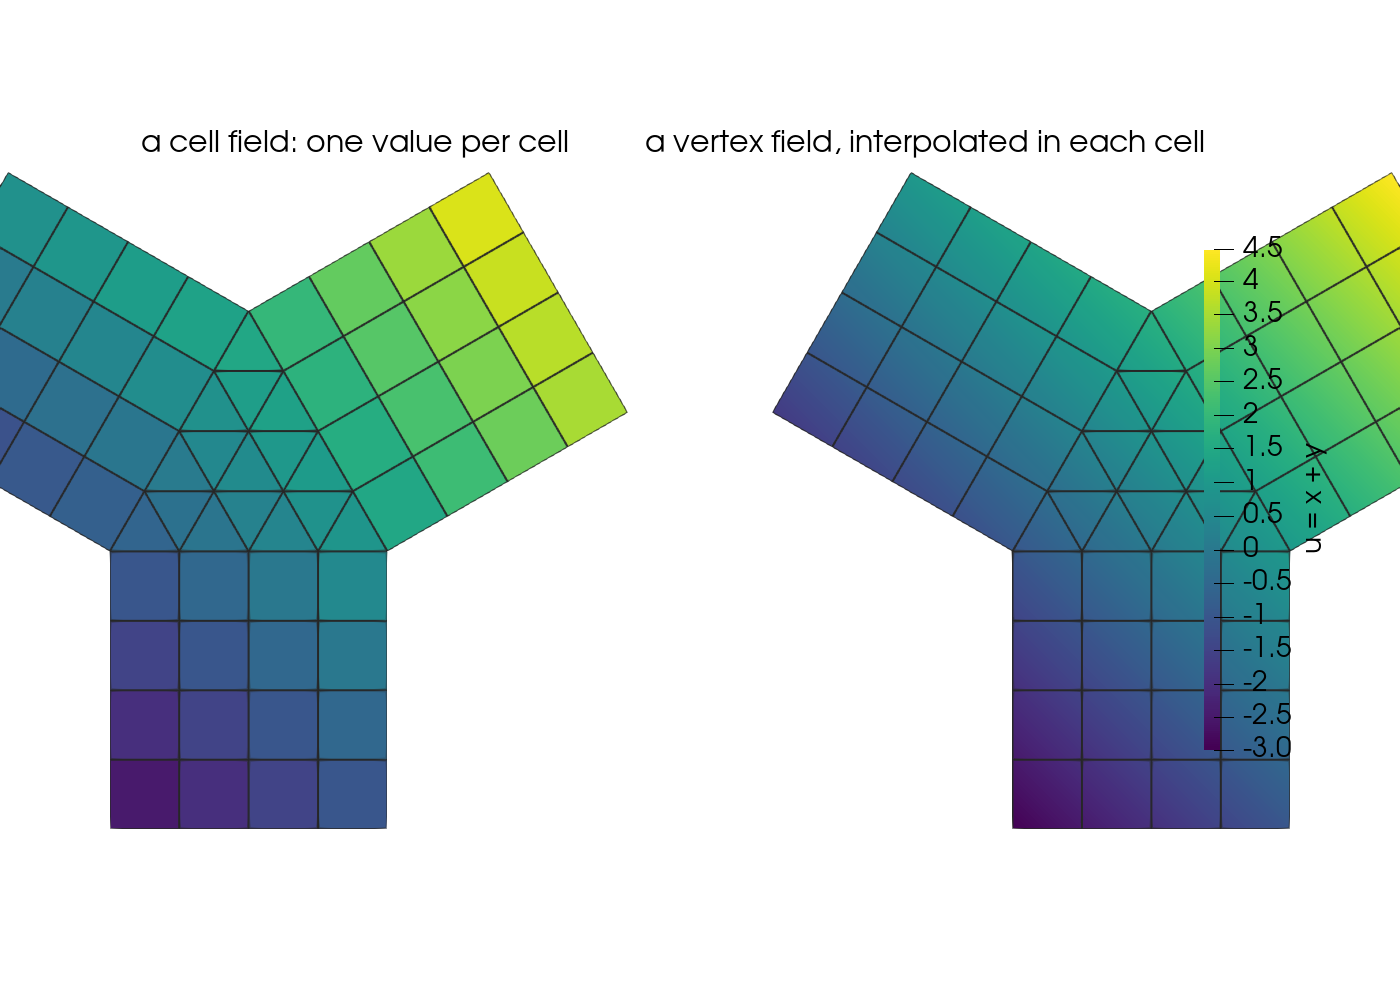
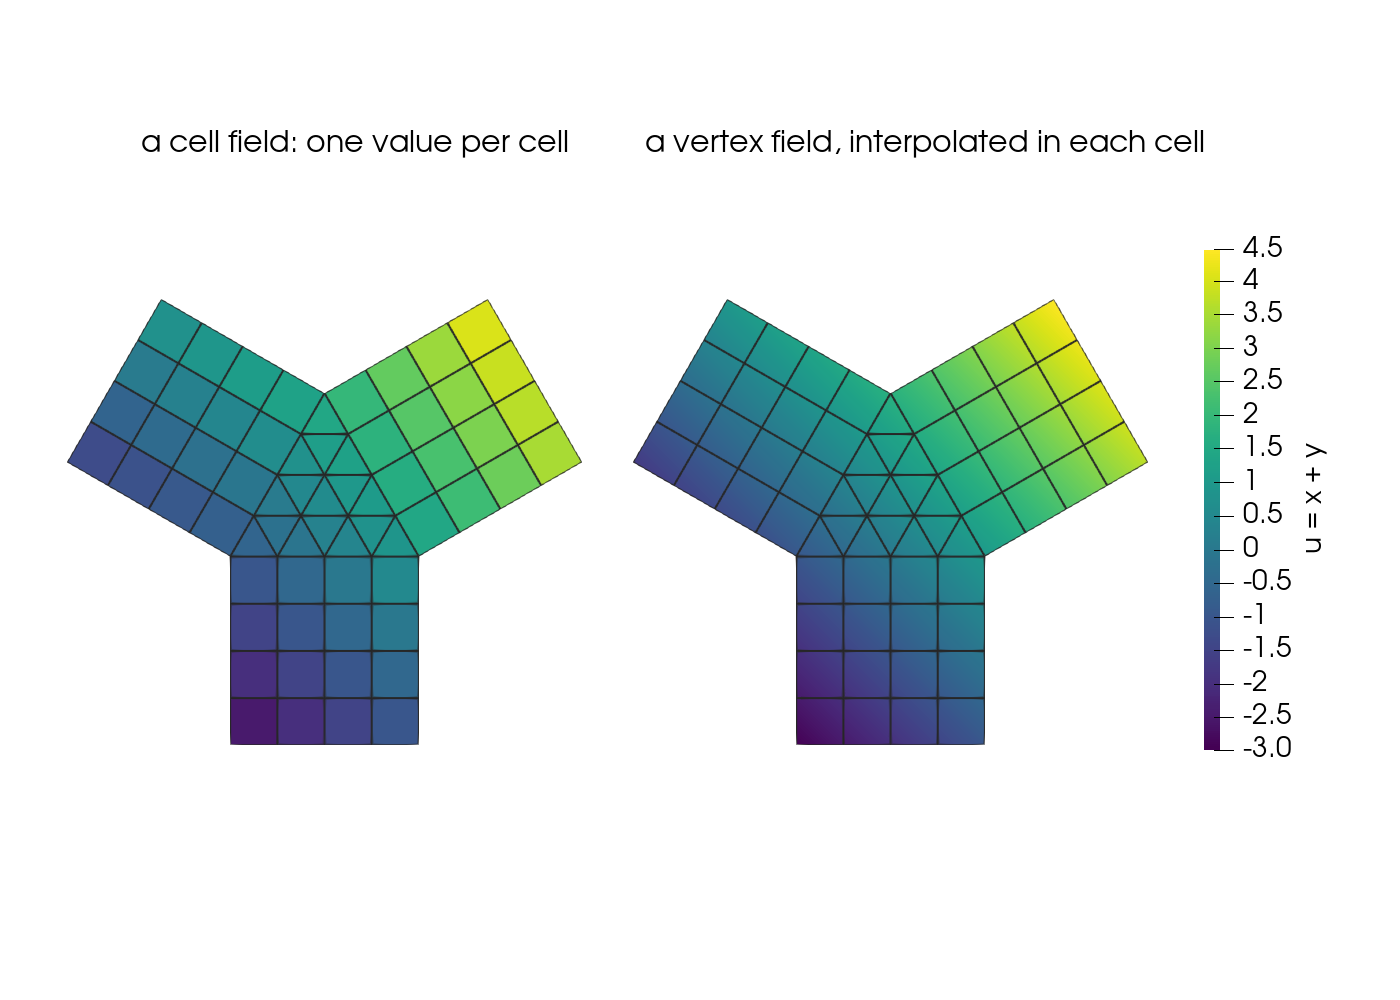
Frame the rendered figures as intended and harden the figure scripts
Render before setting the camera so ParaView's first-render reset cannot override it; clear errors for old bash, failed builds and a rank failing alone.

diff --git a/docs/figures/figure_data.cpp b/docs/figures/figure_data.cpp
@@ -12,12 +12,15 @@
 // docs/figures/make_figures.sh runs the sets and renders the figures; see
 // docs/developer/making-figures.md.
 //
-// Exits 0 on success; 1 when a set fails (the message names the check); 2 for
-// bad arguments, an unknown set, or the wrong rank count.
+// Exits 0 on success; 1 when a set fails (each failing rank prints the check,
+// then leaves at once, so the launcher stops the others rather than leaving
+// them waiting in a collective); 2 for bad arguments, an unknown set, or the
+// wrong rank count.
 
 #include <array>
 #include <cmath>
 #include <cstdio>
+#include <cstdlib>
 #include <exception>
 #include <filesystem>
 #include <fstream>
@@ -337,11 +340,14 @@ void set_edit(const soma::Comm& comm, const fs::path& out) {
   const soma::EditReport report = edit.apply();
   require(report.removed[2] == 2 && report.added[2] == 1 && report.added[0] == 2, "edit: the report");
   require(mesh.edited() && mesh.num_live(2) == 11 && mesh.count(2) == 13 && mesh.tail(2) == 1, "edit: edited state");
+  // What the figure's titles and caption say: the added quad is lid 12, gid 13.
+  require(mesh.gid(2)(12) == 13, "edit: the added quad has gid 13");
   write_json(comm, out / "edit-applied.json", edit_snapshot(mesh));
   const soma::Renumbering renumbering = mesh.compress();
   require(!mesh.edited() && mesh.count(2) == 11, "edit: compressed");
   require(renumbering.new_lid[2][5] == soma::invalid_lo && renumbering.new_lid[2][6] == soma::invalid_lo,
           "edit: removed cells have no new lid");
+  require(renumbering.new_lid[2][12] == 10 && mesh.gid(2)(10) == 13, "edit: the added quad becomes lid 10, gid 13");
   write_json(comm, out / "edit-compressed.json", edit_snapshot(mesh));
 }
 
@@ -399,7 +405,8 @@ int main(int argc, char** argv) {
     if (root) std::printf("soma_figure_data: %s written to %s\n", found->first.c_str(), out.c_str());
     return 0;
   } catch (const std::exception& e) {
-    if (root) std::fprintf(stderr, "soma_figure_data: %s: %s\n", found->first.c_str(), e.what());
-    return 1;
+    std::fprintf(stderr, "soma_figure_data: %s (rank %d): %s\n", found->first.c_str(), comm.rank(), e.what());
+    std::fflush(nullptr);
+    std::_Exit(1);  // not a return: the other ranks may be waiting in a collective
   }
 }

diff --git a/docs/figures/render.py b/docs/figures/render.py
@@ -100,6 +100,12 @@ def pv_surface(pv, view, source):
 
 
 def pv_save(pv, view, path, camera):
+    """Renders with the given camera and saves the shared size.
+
+    A first render lets ParaView reset the camera to the data, as it does on a
+    view's first render; the camera set after it is then the one drawn.
+    """
+    pv.Render(view)
     view.CameraPosition = camera["position"]
     view.CameraFocalPoint = camera["focal"]
     view.CameraViewUp = camera["up"]
@@ -350,7 +356,7 @@ def cell_and_vertex_fields(data, path):
     cells = pv.LegacyVTKReader(FileNames=[str(data / "fields" / "fields-cell.vtk")])
     vertices = pv.LegacyVTKReader(FileNames=[str(data / "fields" / "fields-vertex.vtk")])
     shifted = pv.Transform(Input=vertices)
-    shifted.Transform.Translate = [6.5, 0.0, 0.0]
+    shifted.Transform.Translate = [6.0, 0.0, 0.0]
     for source, association in ((cells, "CELLS"), (shifted, "POINTS")):
         display = pv_surface(pv, view, source)
         display.LineWidth = 2.0
@@ -365,8 +371,10 @@ def cell_and_vertex_fields(data, path):
     bar.RangeLabelFormat = "{:.1f}"
     pv_label(pv, view, "a cell field: one value per cell", [0.1, 0.84])
     pv_label(pv, view, "a vertex field, interpolated in each cell", [0.46, 0.84])
-    pv_save(pv, view, path, {"position": [3.25, 0.37, 30.0], "focal": [3.25, 0.37, 0.0], "up": [0, 1, 0],
-                             "parallel": 1, "parallel_scale": 3.6})
+    # The copies span x in [-2.73, 8.73] and y in [-2, 2.73]; the view is 14.9 wide (1.4 times
+    # twice the parallel scale), leaving the right sixth for the colour bar.
+    pv_save(pv, view, path, {"position": [3.98, 0.6, 30.0], "focal": [3.98, 0.6, 0.0], "up": [0, 1, 0],
+                             "parallel": 1, "parallel_scale": 5.3})
 
 
 @figure("mesh-edit", ["edit"], "svg")

diff --git a/docs/parallel/comm.md b/docs/parallel/comm.md
@@ -16,8 +16,10 @@ one-rank parallel run.
 ```mermaid
 flowchart TB
   callers["parallel, io, algorithms, amr"] --> comm["soma::Comm<br/>soma/parallel/comm.hpp"]
-  comm -- "SOMA_ENABLE_MPI on" --> mpi["src/parallel/comm_mpi.cpp<br/>MPI calls on the wrapped communicator"]
-  comm -. "SOMA_ENABLE_MPI off" .-> serial["src/parallel/comm_serial.cpp<br/>rank 0 of 1: every collective is the identity"]
+  mpi["src/parallel/comm_mpi.cpp<br/>MPI calls on the wrapped communicator"]
+  serial["src/parallel/comm_serial.cpp<br/>rank 0 of 1: every collective is the identity"]
+  comm -- "SOMA_ENABLE_MPI on" --> mpi
+  comm -. "SOMA_ENABLE_MPI off" .-> serial
 ```
 
 ```cpp

diff --git a/docs/concepts/building-meshes.md b/docs/concepts/building-meshes.md
@@ -188,7 +188,7 @@ The numbering, from the header:
 | tri | quad $q$ (0-based) gives triangles $2q + 1 = (v_0, v_1, v_2)$ and $2q + 2 = (v_0, v_2, v_3)$ |
 
 ```{figure} ../figures/img/box-mesh-gids.png
-:alt: A box of 4 by 3 by 2 hexes, each cell coloured by its gid, from 1 at the near bottom corner to 24 at the far top corner
+:alt: A box of 4 by 3 by 2 hexes, each cell coloured by its gid, from 1 at the left end of the front bottom row to 24 at the right end of the top back row
 :width: 70%
 
 `box_mesh({.nx = 4, .ny = 3, .nz = 2, .lx = 4, .ly = 3, .lz = 2})`, each hex coloured by its gid:

diff --git a/docs/getting-started/overview.md b/docs/getting-started/overview.md
@@ -135,6 +135,7 @@ flowchart LR
   end
   host -- "mirror#lt;Space#gt;(TransferOptions)" --> device
   device -- "view(): a MeshView, captured by value" --> kernels["Kokkos kernels"]
+  device -- "HaloExchange, record transport:<br/>staged through host buffers" --> mpi["MPI<br/>sees host memory only"]
 ```
 
 - A `HostMesh` holds everything: topology, coordinates, adjacency graphs, fields, sets and the
